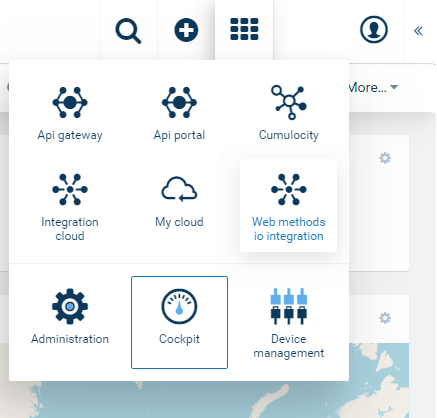
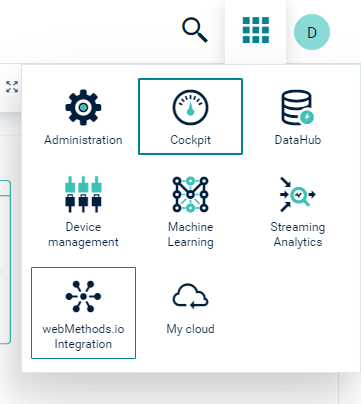
Merge pull request #905 from SoftwareAG/feature/WebMethods-io/update-screenshots-for-1017
Update Screenshots for WebMethods.io Connector in 10.17+

diff --git a/content/users-guide/webMethods.md b/content/users-guide/webMethods.md
@@ -29,7 +29,6 @@ To subscribe to webMethods.io Integration, perform the following steps:
 
 {{< c8y-admon-info >}}
 If the icon is unavailable you might not be subscribed to **webMethods.io Integration**. Subscribe to it by opening the application switcher and clicking **MyCloud**. This will take you to the **{{< sag-cloud >}}** portal where you can subscribe for a free trial.
-<br><br>![webMethods.io App Switcher My Cloud](/images/users-guide/webMethods.io/wmio-appswitcher-mycloud.png)
 {{< /c8y-admon-info >}}
 
 ### Examples
@@ -44,4 +43,4 @@ WebMethods.io also provides pre-configured workflows which are called "recipes".
 
 ![webMethods.io Example Recipe](/images/users-guide/webMethods.io/wmio-recipe-salesforce.png)
 
-More examples and technical guides can be found on the [{{< sag-dev-community >}} website](https://techcommunity.softwareag.com/en_en/webmethods-apis-integration-microservices.html).
+More examples and technical guides can be found on the [{{< sag-dev-community >}} website](https://techcommunity.softwareag.com/en_en/webmethods-apis-integration-microservices.html). In particular, for more detailed information about the {{< product-c8y-iot >}} triggers and connectors in webMethods.io refer to [these articles]({{< link-sag-tech-forum >}}tag/webmethods-c8y-connector).
